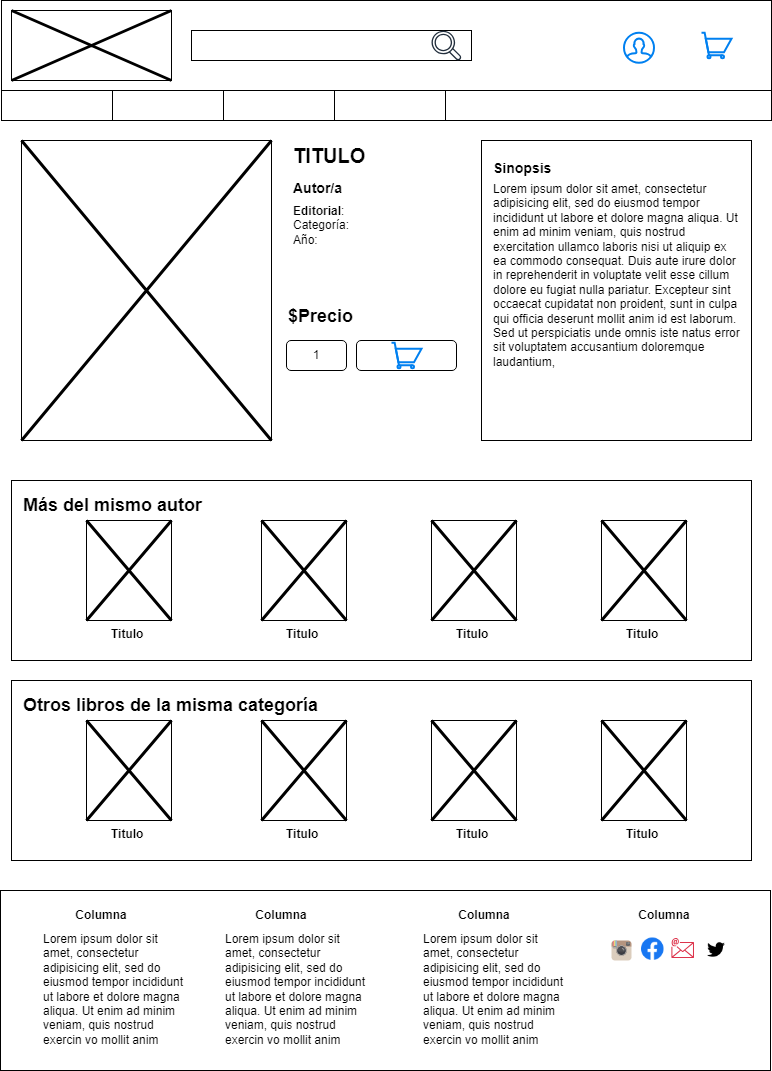
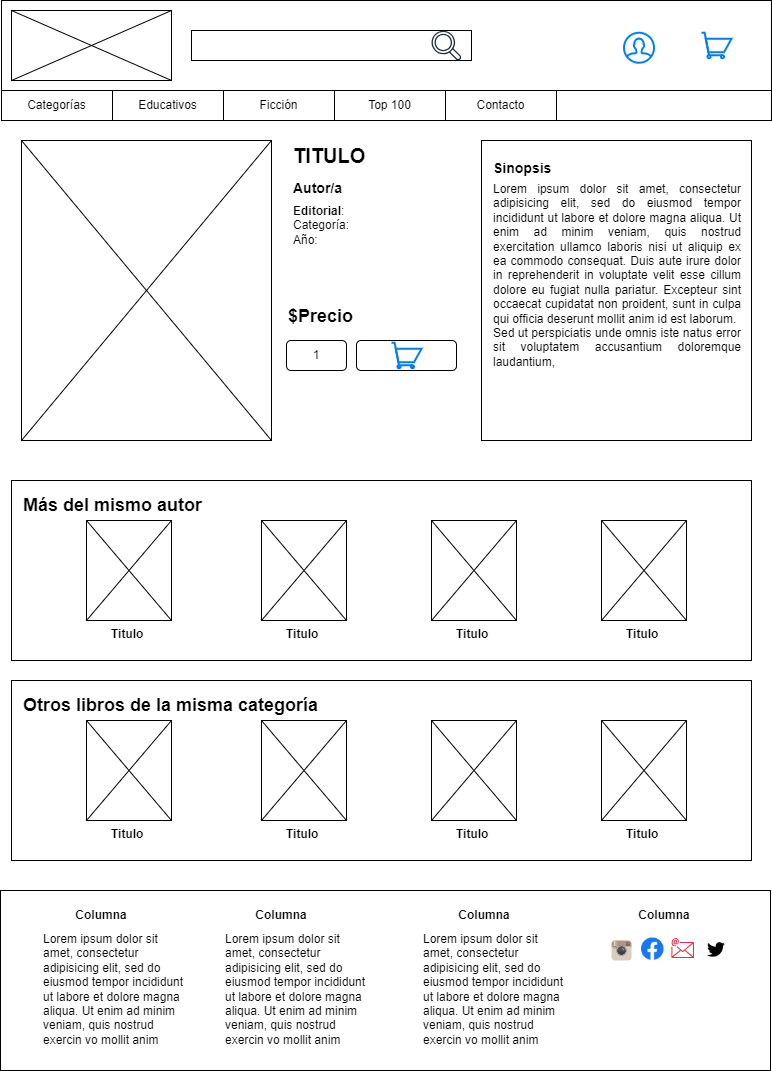
Modifico el wireframe detalle, y agrego uno para la visualización en celulares

diff --git a/README.md b/README.md
@@ -47,3 +47,7 @@ Sitio web de argentina, opciones para filtrar libros se pueden ver del lado izqu
 https://www.planetadelibros.com.ar/
 
 Sitio web de argentina, que posee un menú del lado izquierdo que se transforma al visualizar la parte de abajo de las páginas. Además posee videos promocionando los libros.
+
+https://cuspide.com/
+
+Sitio web Argentino de venta de libros perteneciente a una franquicia de muchos años y con librerias propias. El diseño de su barra de navegación y cabecera para visualización en dispositivos moviles es atractiva.
